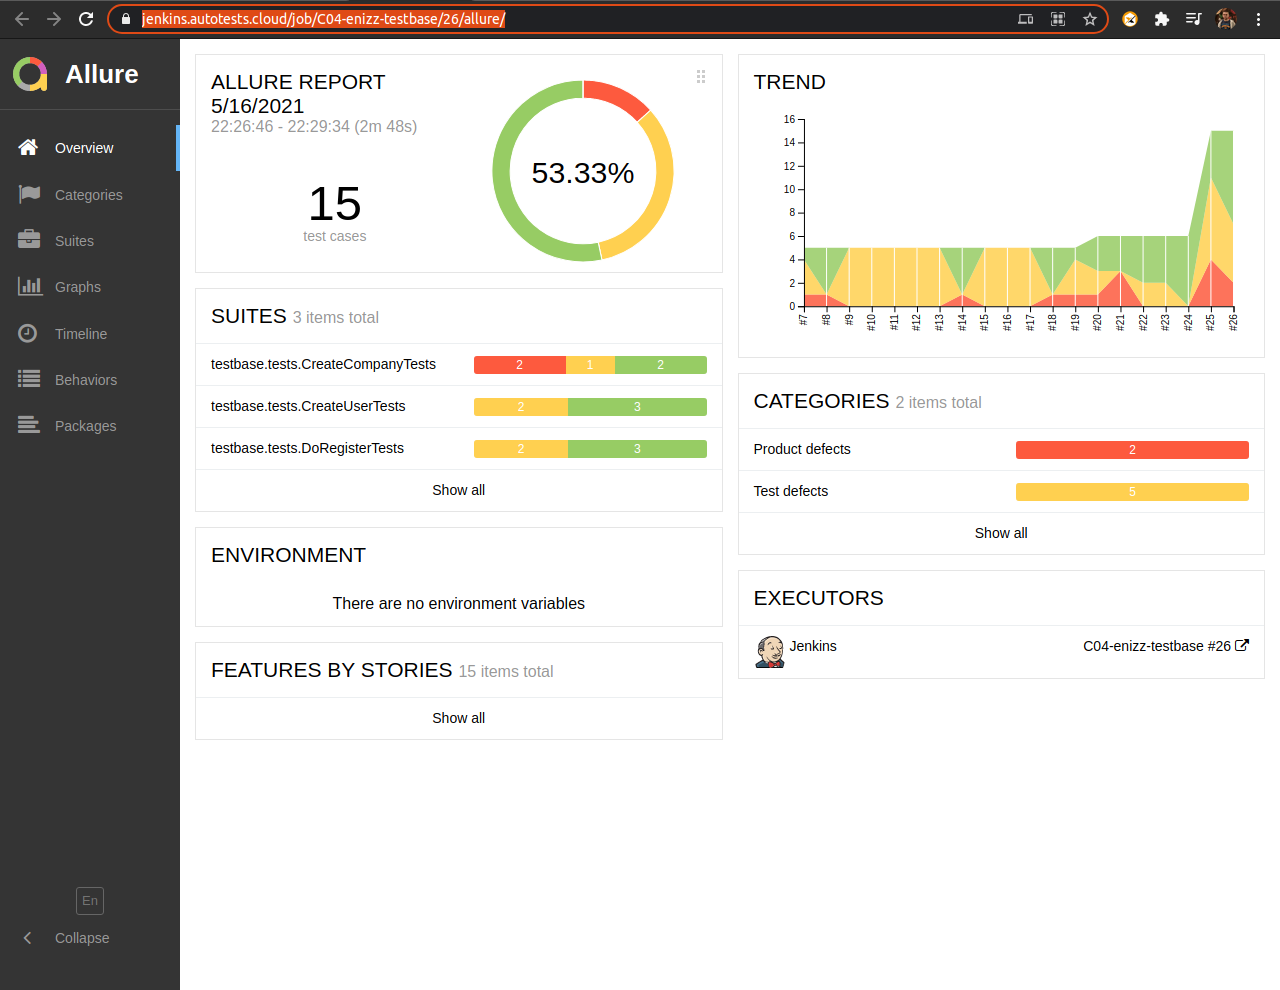
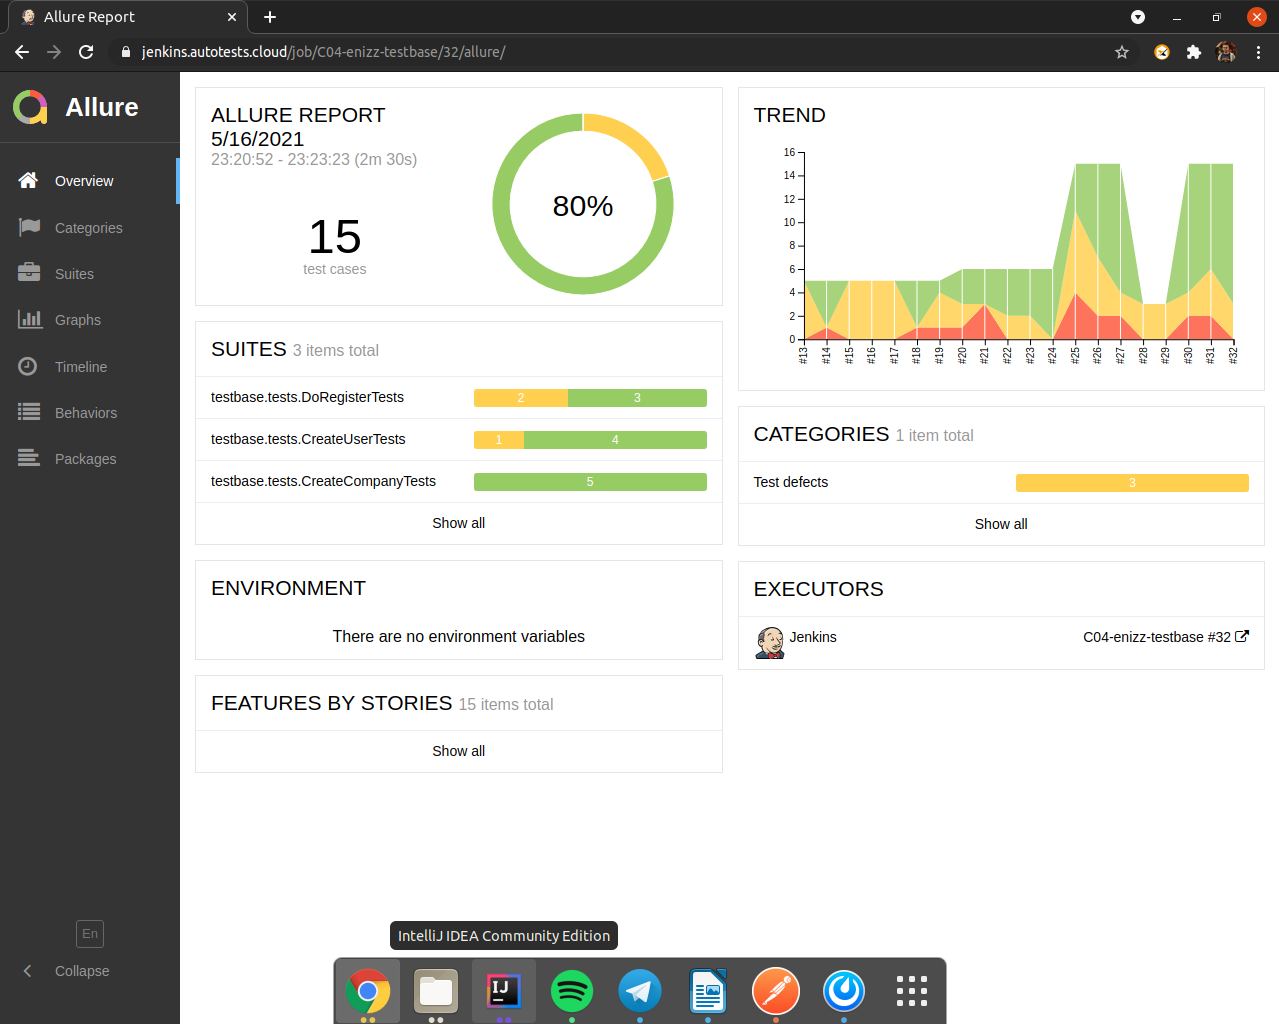
update screen

diff --git a/README.md b/README.md
@@ -11,5 +11,5 @@
     
 [**Jenkins**](https://jenkins.autotests.cloud/job/C04-enizz-testbase/)
 ![jen](img/jenkins.png)
-[**Allure Report**](https://jenkins.autotests.cloud/job/C04-enizz-testbase/26/allure/)
+[**Allure Report**](https://jenkins.autotests.cloud/job/C04-enizz-testbase/32/allure/)
 ![allure](img/allure.png)    
